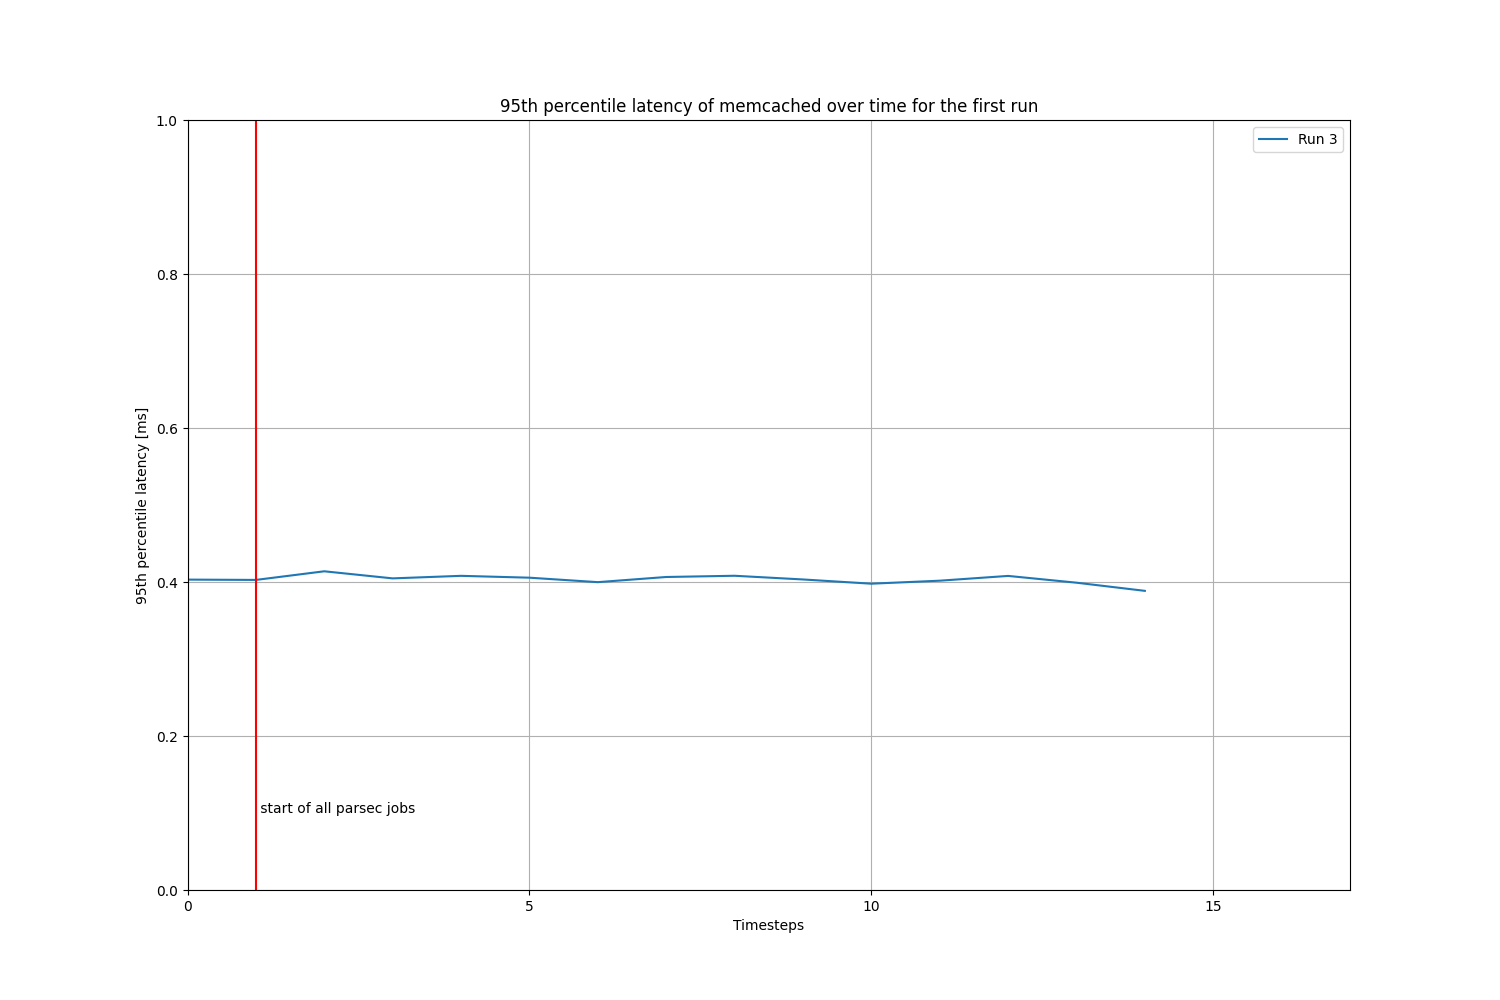
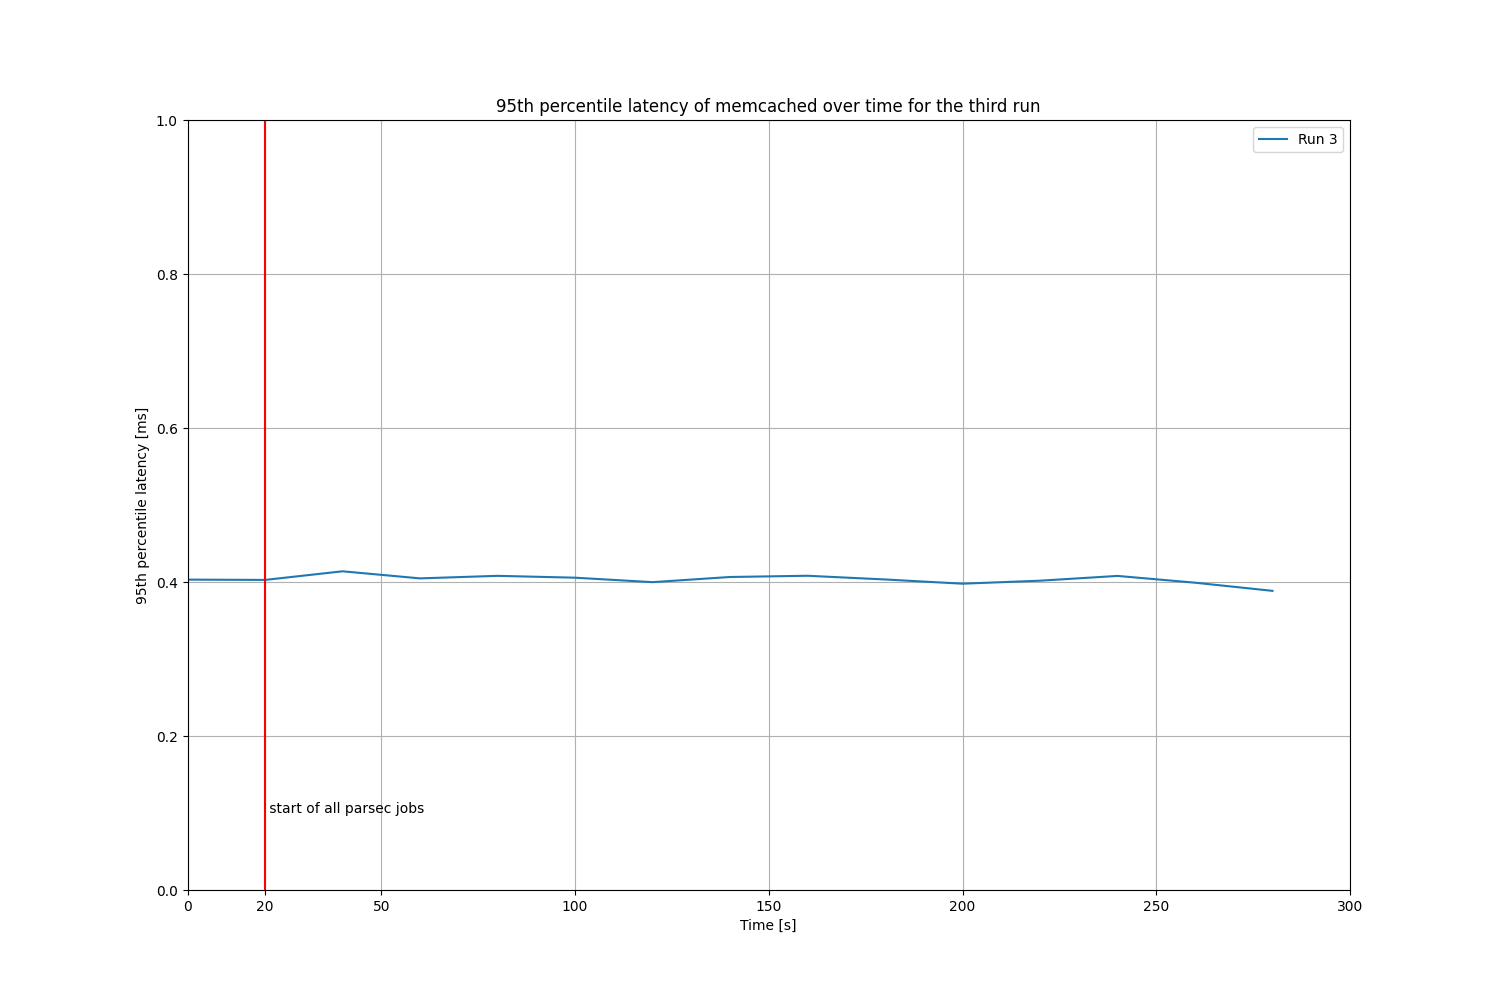
adapted plots

diff --git a/part3/main.py b/part3/main.py
@@ -42,7 +42,7 @@ def create_data_arrays_per_run(first_row, file):
     i = 0
     while (first_row[:4] == "read"):
         raw_row_array = comma(first_row[4:])
-        x_data.append(i)
+        x_data.append(i*20)
         i += 1
         y_data.append(raw_row_array[11])
         first_row = file.readline()
@@ -76,14 +76,14 @@ def create_all_data_arrays(file):
 plt.figure(figsize=(15, 10))
 
 plt.plot(x1[0], y1[0], label="Run 1")
-plt.axvline(x = 1, color = 'r', linestyle = '-')
-plt.text(1, .1, ' start of all parsec jobs')
+plt.axvline(x = 20, color = 'r', linestyle = '-')
+plt.text(20, .1, ' start of all parsec jobs')
 
 
-plt.xlabel("Timesteps")
+plt.xlabel("Time [s]")
 plt.ylabel("95th percentile latency [ms]")
-plt.xlim(0, 17)
-plt.xticks([0, 5, 10, 15], ['0', '5', '10', '15'])
+plt.xlim(0, 250)
+plt.xticks([0, 20, 50, 100, 150, 200, 250, 300], ['0', '20', '50', '100', '150', '200', '250', '300'])
 plt.ylim(0, 1)
 plt.title("95th percentile latency of memcached over time for the first run")
 plt.legend(loc="upper right")
@@ -100,16 +100,16 @@ plt.show()
 plt.figure(figsize=(15, 10))
 
 plt.plot(x1[0], y1[0], label="Run 2")
-plt.axvline(x = 1, color = 'r', linestyle = '-')
-plt.text(1, .1, ' start of all parsec jobs')
+plt.axvline(x = 20, color = 'r', linestyle = '-')
+plt.text(20, .1, ' start of all parsec jobs')
 
 
-plt.xlabel("Timesteps")
+plt.xlabel("Time [s]")
 plt.ylabel("95th percentile latency [ms]")
-plt.xlim(0, 17)
-plt.xticks([0, 5, 10, 15], ['0', '5', '10', '15'])
+plt.xlim(0, 250)
+plt.xticks([0, 20, 50, 100, 150, 200, 250, 300], ['0', '20', '50', '100', '150', '200', '250', '300'])
 plt.ylim(0, 1)
-plt.title("95th percentile latency of memcached over time for the first run")
+plt.title("95th percentile latency of memcached over time for the second run")
 plt.legend(loc="upper right")
 plt.grid()
 
@@ -126,16 +126,16 @@ plt.show()
 plt.figure(figsize=(15, 10))
 
 plt.plot(x1[0], y1[0], label="Run 3")
-plt.axvline(x = 1, color = 'r', linestyle = '-')
-plt.text(1, .1, ' start of all parsec jobs')
+plt.axvline(x = 20, color = 'r', linestyle = '-')
+plt.text(20, .1, ' start of all parsec jobs')
 
 
-plt.xlabel("Timesteps")
+plt.xlabel("Time [s]")
 plt.ylabel("95th percentile latency [ms]")
-plt.xlim(0, 17)
-plt.xticks([0, 5, 10, 15], ['0', '5', '10', '15'])
+plt.xlim(0, 250)
+plt.xticks([0, 20, 50, 100, 150, 200, 250, 300], ['0', '20', '50', '100', '150', '200', '250', '300'])
 plt.ylim(0, 1)
-plt.title("95th percentile latency of memcached over time for the first run")
+plt.title("95th percentile latency of memcached over time for the third run")
 plt.legend(loc="upper right")
 plt.grid()
 
